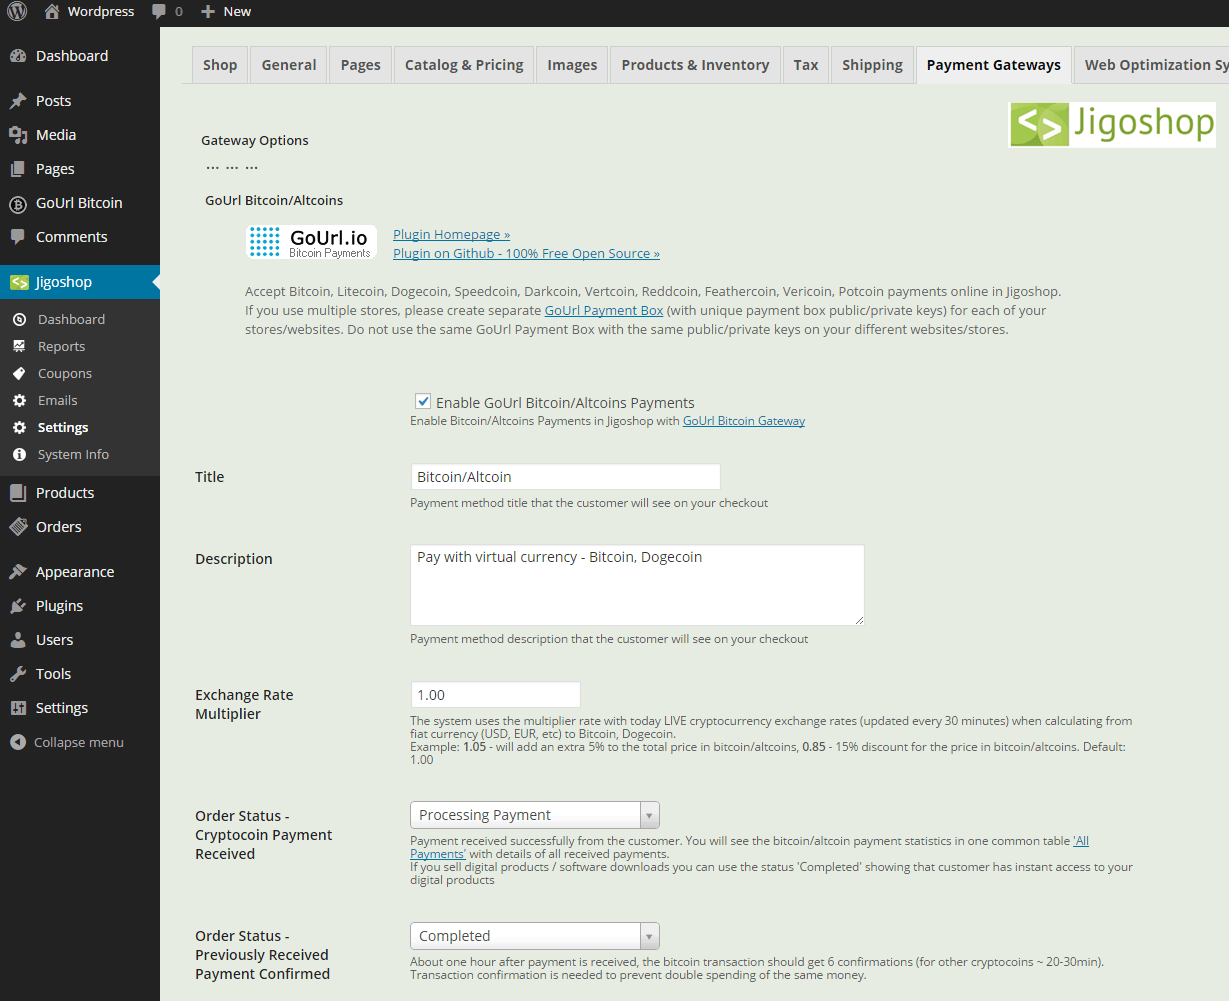
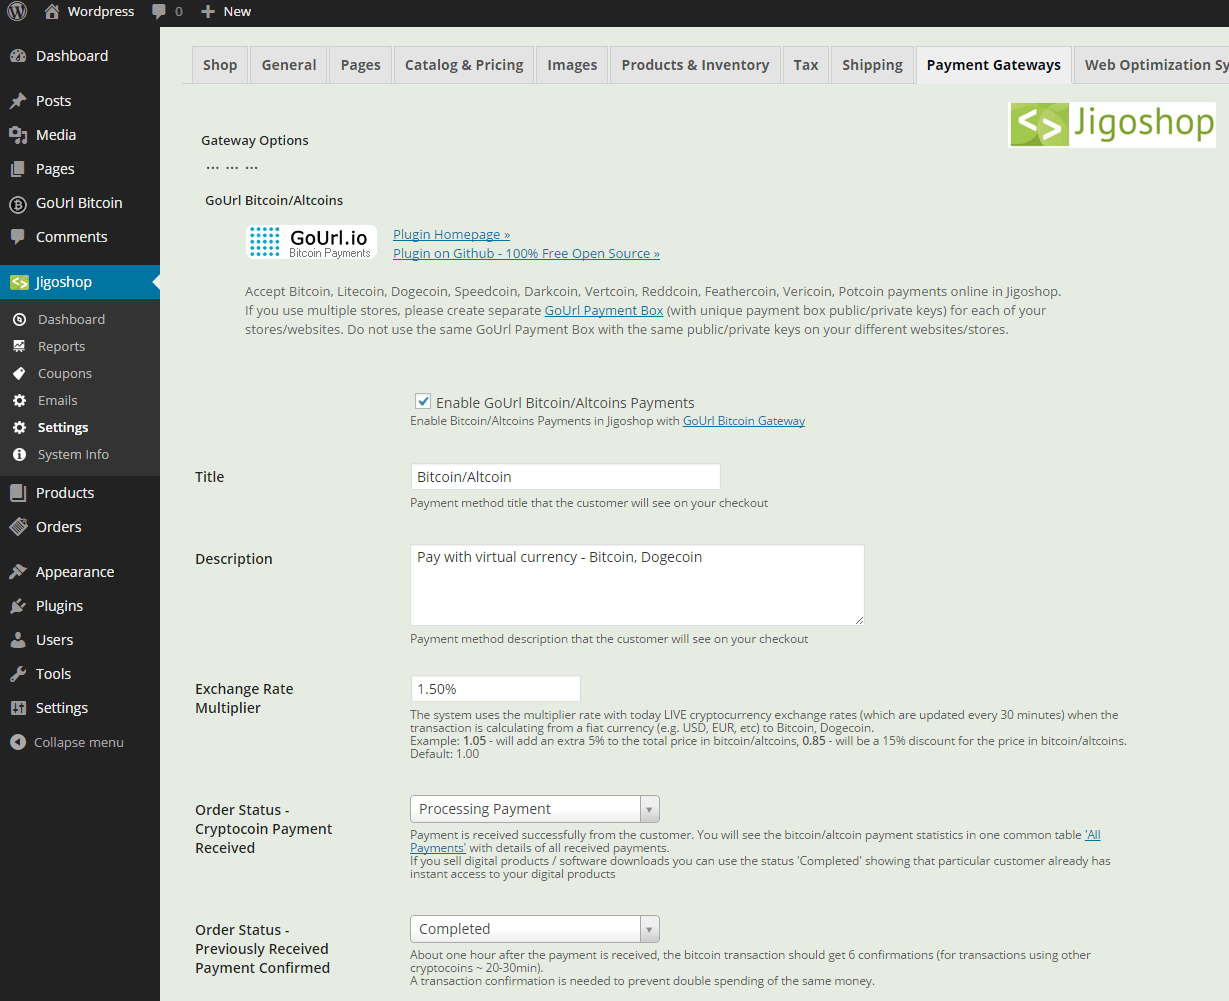
Version 1.0

diff --git a/jigoshop-gateway-gourl.php b/jigoshop-gateway-gourl.php
@@ -151,7 +151,7 @@ function gourl_jigoshop_gateway_load()
 			$this->enabled      		= Jigoshop_Base::get_options()->get( GOURLJI.'enabled' );
 			$this->title        		= Jigoshop_Base::get_options()->get( GOURLJI.'title' );
 			$this->description  		= Jigoshop_Base::get_options()->get( GOURLJI.'description' );
-			$this->emultiplier  		= Jigoshop_Base::get_options()->get( GOURLJI.'emultiplier' );
+			$this->emultiplier  		= trim(str_replace("%", "", Jigoshop_Base::get_options()->get( GOURLJI.'emultiplier' )));
 			$this->ostatus  			= Jigoshop_Base::get_options()->get( GOURLJI.'ostatus' );
 			$this->ostatus2  			= Jigoshop_Base::get_options()->get( GOURLJI.'ostatus2' );
 			$this->deflang  			= Jigoshop_Base::get_options()->get( GOURLJI.'deflang' );
@@ -222,7 +222,7 @@ function gourl_jigoshop_gateway_load()
 	    	$method_description  	 = "<img style='float:left; margin-right:15px' src='".plugin_dir_url( __FILE__ )."gourlpayments.png'>";
 	    	$method_description  	.= __( '<a target="_blank" href="https://gourl.io/bitcoin-payments-jigoshop.html">Plugin Homepage &#187;</a>', GOURLJI ) . "<br>";
 	    	$method_description  	.= __( '<a target="_blank" href="https://github.com/cryptoapi/Bitcoin-Payments-Jigoshop">Plugin on Github - 100% Free Open Source &#187;</a>', GOURLJI ) . "<br><br>";
-	    	$method_description  	.= __( 'Accept Bitcoin, Litecoin, Dogecoin, Speedcoin, Darkcoin, Vertcoin, Reddcoin, Feathercoin, Vericoin, Potcoin payments online in Jigoshop.', GOURLJI ).'<br/>';
+	    	$method_description  	.= sprintf(__( 'Accept %s payments online in Jigoshop.', GOURLJI ), ($this->coin_names?ucwords(implode(", ", $this->coin_names)):"Bitcoin, Litecoin, Dogecoin, Speedcoin, Darkcoin, Vertcoin, Reddcoin, Feathercoin, Vericoin, Potcoin")).'<br/>';
 	    	
 	    	// Requirements
 	    	if (class_exists('gourlclass') && defined('GOURL') && defined('GOURL_ADMIN') && is_object($gourl))
@@ -289,7 +289,7 @@ function gourl_jigoshop_gateway_load()
 	    	$defaults[] = array(
 	    			'id' 		=> GOURLJI.'emultiplier',
 	    			'name'		=> __('Exchange Rate Multiplier', GOURLJI),
-	    			'desc' 		=> sprintf(__('The system uses the multiplier rate with today LIVE cryptocurrency exchange rates (updated every 30 minutes) when calculating from fiat currency (USD, EUR, etc) to %s. <br />Example: <b>1.05</b> - will add an extra 5%% to the total price in bitcoin/altcoins, <b>0.85</b> - 15%% discount for the price in bitcoin/altcoins. Default: 1.00 ', GOURLJI ), $coins),
+	    			'desc' 		=> sprintf(__('The system uses the multiplier rate with today LIVE cryptocurrency exchange rates (which are updated every 30 minutes) when the transaction is calculating from a fiat currency (e.g. USD, EUR, etc) to %s. <br />Example: <b>1.05</b> - will add an extra 5%% to the total price in bitcoin/altcoins, <b>0.85</b> - will be a 15%% discount for the price in bitcoin/altcoins. Default: 1.00 ', GOURLJI ), $coins),
 	    			'tip' 		=> '',
 	    			'std' 		=> '1.00',
 	    			'type' 		=> 'text'
@@ -298,7 +298,7 @@ function gourl_jigoshop_gateway_load()
 	    	$defaults[] = array(
 	    			'id' 		=> GOURLJI.'ostatus',
 	    			'name'		=> __('Order Status - Cryptocoin Payment Received', GOURLJI ),
-	    			'desc' 		=> sprintf(__("Payment received successfully from the customer. You will see the bitcoin/altcoin payment statistics in one common table <a href='%s'>'All Payments'</a> with details of all received payments.<br/>If you sell digital products / software downloads you can use the status 'Completed' showing that customer has instant access to your digital products", GOURLJI), $url2),
+	    			'desc' 		=> sprintf(__("Payment is received successfully from the customer. You will see the bitcoin/altcoin payment statistics in one common table <a href='%s'>'All Payments'</a> with details of all received payments.<br/>If you sell digital products / software downloads you can use the status 'Completed' showing that particular customer already has instant access to your digital products", GOURLJI), $url2),
 	    			'tip' 		=> '',
 	    			'std' 		=> 'processing',
 	    			'choices' 	=> $this->statuses,
@@ -308,7 +308,7 @@ function gourl_jigoshop_gateway_load()
 	    	$defaults[] = array(
 	    			'id' 		=> GOURLJI.'ostatus2',
 	    			'name'		=> __('Order Status - Previously Received Payment Confirmed', GOURLJI ),
-	    			'desc' 		=> __("About one hour after payment is received, the bitcoin transaction should get 6 confirmations (for other cryptocoins ~ 20-30min).<br>Transaction confirmation is needed to prevent double spending of the same money.", GOURLJI),
+	    			'desc' 		=> __("About one hour after the payment is received, the bitcoin transaction should get 6 confirmations (for transactions using other cryptocoins ~ 20-30min).<br>A transaction confirmation is needed to prevent double spending of the same money.", GOURLJI),
 	    			'tip' 		=> '',
 	    			'std' 		=> 'completed',
 	    			'choices' 	=> $this->statuses,
@@ -644,5 +644,5 @@ function gourl_jigoshop_gateway_load()
 
 
 }
-// end gourl_jigoshop_gateway_load()             
+// end gourl_jigoshop_gateway_load()                 
 
